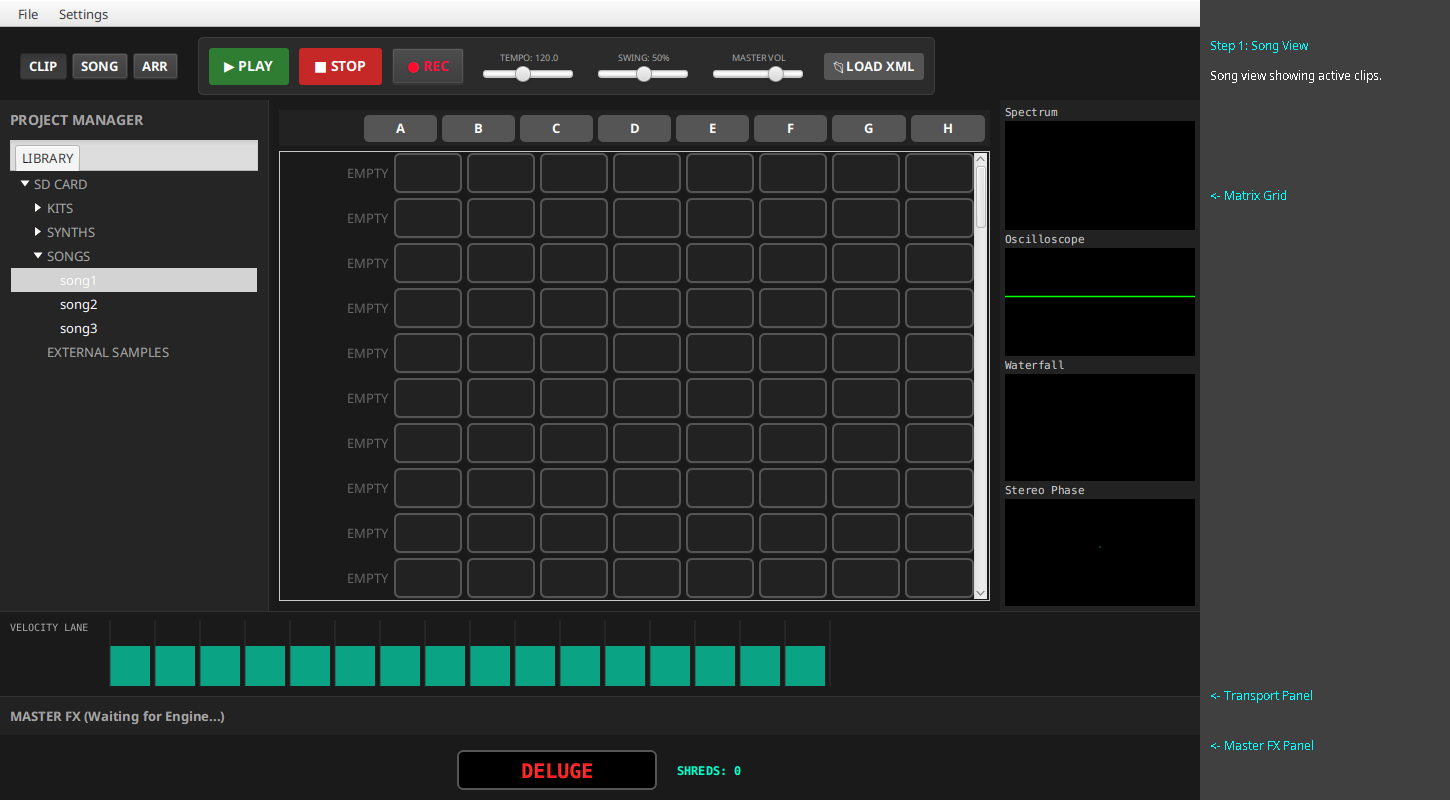
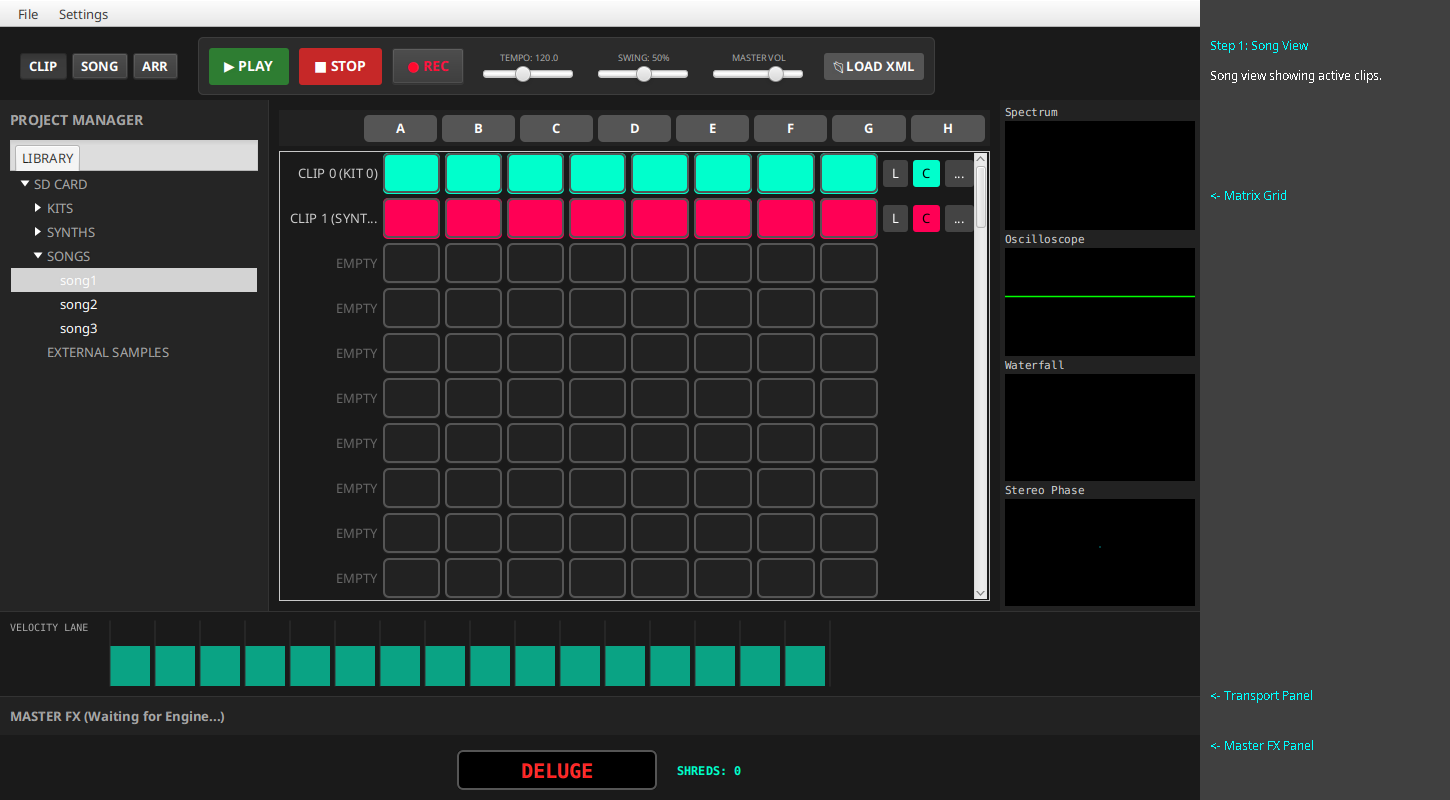
Update screenshots with real Song View populating clips.

Changed region(s): [[0.2172, 0.1875, 0.6828, 0.75]]

diff --git a/deluge/src/test/java/org/chuck/deluge/ui/ScreenshotGenerator.java b/deluge/src/test/java/org/chuck/deluge/ui/ScreenshotGenerator.java
@@ -82,13 +82,27 @@ public class ScreenshotGenerator {
           }
       }
       
-      // Simulate loaded steps (to ensure grid changes visually)
-      bridge.setStep(0, 2, true);
-      bridge.setStep(0, 5, true);
-      bridge.setStep(0, 8, true);
-      bridge.setStep(0, 10, true);
+      org.chuck.deluge.model.ProjectModel loadedProject = new org.chuck.deluge.model.ProjectModel();
       
+      org.chuck.deluge.model.TrackModel track1 = new org.chuck.deluge.model.KitTrackModel("KIT 0");
+      org.chuck.deluge.model.ClipModel clip1 = new org.chuck.deluge.model.ClipModel("CLIP 0", 1, 16);
+      clip1.setColor("#00ffcc");
+      track1.addClip(clip1);
+      
+      org.chuck.deluge.model.TrackModel track2 = new org.chuck.deluge.model.SynthTrackModel("SYNTH 0");
+      org.chuck.deluge.model.ClipModel clip2 = new org.chuck.deluge.model.ClipModel("CLIP 1", 1, 16);
+      clip2.setColor("#ff0055");
+      track2.addClip(clip2);
+      
+      loadedProject.getTracks().add(track1);
+      loadedProject.getTracks().add(track2);
+      
+      mainPanel.setProjectModel(loadedProject);
       mainPanel.getSongPanel().refresh();
+      
+      System.out.println("TRACE: Loaded project with " + loadedProject.getTracks().size() + " tracks.");
+      System.out.println("TRACE: Track 0 has " + track1.getClips().size() + " clips.");
+      System.out.println("TRACE: Track 1 has " + track2.getClips().size() + " clips.");
     });
     
     // Switch to SONG view and take snapshot
@@ -98,10 +112,8 @@ public class ScreenshotGenerator {
     
     // Simulate selection of first clip
     runAndWait(() -> {
-        org.chuck.deluge.model.TrackModel track = new org.chuck.deluge.model.KitTrackModel("KIT 0");
-        org.chuck.deluge.model.ClipModel clip = new org.chuck.deluge.model.ClipModel("CLIP 0", 1, 16);
-        track.addClip(clip);
-        mainPanel.getProjectModel().getTracks().add(track);
+        org.chuck.deluge.model.TrackModel track = mainPanel.getProjectModel().getTracks().get(0);
+        org.chuck.deluge.model.ClipModel clip = track.getClips().get(0);
         
         mainPanel.getMatrixPanel().setSynthMode(false);
         mainPanel.getMatrixPanel().setBaseTrack(0);

diff --git a/deluge/src/main/java/org/chuck/deluge/ui/DelugeMainPanel.java b/deluge/src/main/java/org/chuck/deluge/ui/DelugeMainPanel.java
@@ -568,4 +568,9 @@ public class DelugeMainPanel extends BorderPane {
   public void setView(ViewMode mode) {
     javafx.application.Platform.runLater(() -> switchView(mode));
   }
+
+  public void setProjectModel(org.chuck.deluge.model.ProjectModel projectModel) {
+    this.projectModel = projectModel;
+    songPanel.setProjectModel(projectModel);
+  }
 }
